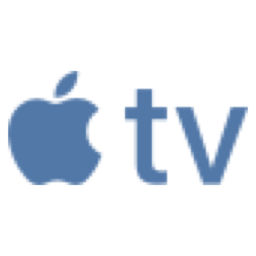
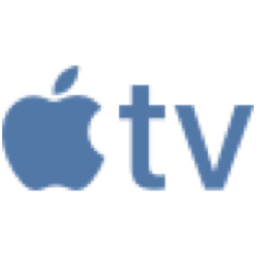
Improve Apple TV visibility with tighter spacing and larger complete mark

Changed region(s): [[0.4375, 0.3125, 1.0, 0.75], [0.0, 0.25, 0.4062, 0.75], [0.7188, 0.5625, 0.75, 0.5938]]

diff --git a/README.md b/README.md
@@ -9,10 +9,11 @@
 
 同一 PNG 分别放在浅色与深色背景中展示。
 
-![深浅主题全套预览](Preview/all-icons-blue-a-v8.png)
+![深浅主题全套预览](Preview/all-icons-blue-a-v9.png)
 
 ## 本次更新 · 2026-11-03
 
+- **Apple TV**：保留苹果与 tv 的完整组合标识，收紧两者间距，图形等比例放大约 10%。
 - **当前整体尺寸**：在上一版平衡尺寸的基础上，全部 50 个图标（含地区字母底牌）统一等比例缩小 5%，保持居中、透明背景与原有相对大小关系。
 
 - 全套服务 logo 与地区字母底牌统一为 A 方案柔和蓝 `#5278A8`。
